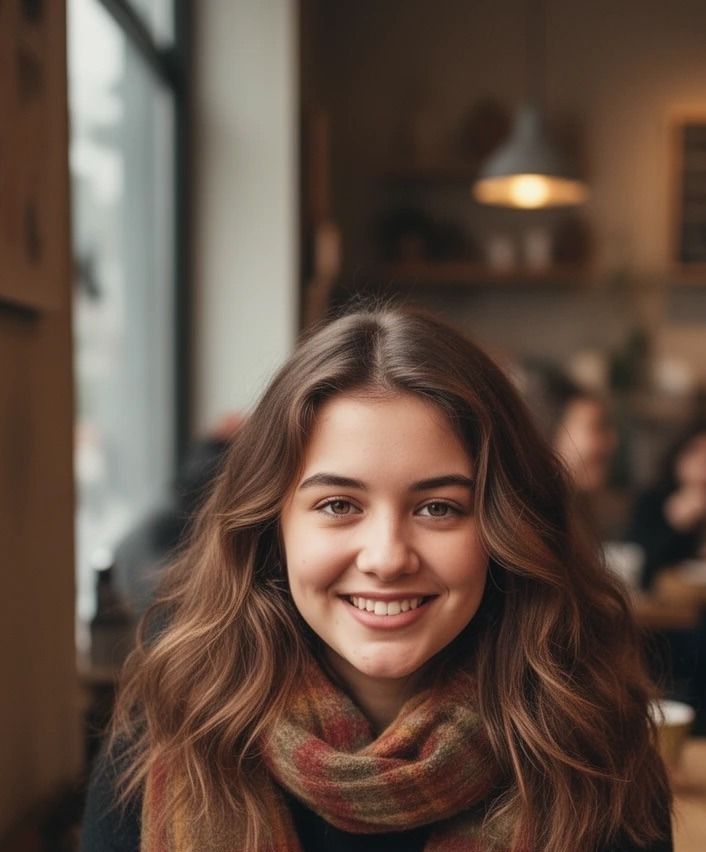
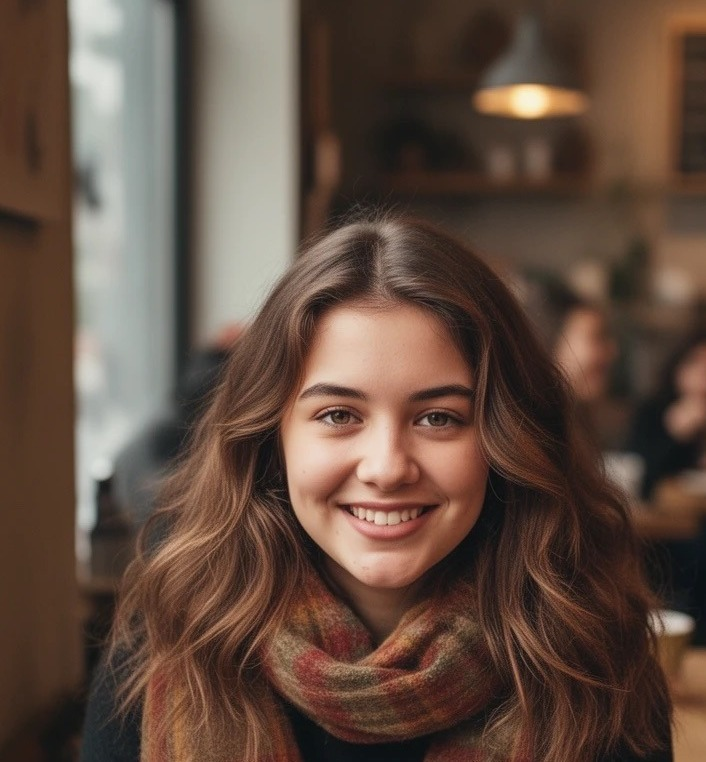
Fix Beat 0 images not showing; reframe 2024 portrait
- Beat 0: switch Image style from absoluteFillObject to width/height 100% so images fill the card correctly
- Beat 0 overlay: use explicit position absolute instead of spread to avoid StyleSheet issues
- timeline_2024: crop 90px from top to shift face into upper third of card

diff --git a/aihunter-app/features/onboarding/ThesisScreen.js b/aihunter-app/features/onboarding/ThesisScreen.js
@@ -239,7 +239,7 @@ function Beat0({ onFlash, onNext }) {
             >
               <Image
                 source={BEAT0_IMAGES[label]}
-                style={StyleSheet.absoluteFillObject}
+                style={styles.beat0Image}
                 resizeMode="cover"
               />
               {stage >= 2 && (
@@ -608,7 +608,8 @@ const styles = StyleSheet.create({
   imageRow:                 { flexDirection: 'row', gap: 12, justifyContent: 'center' },
   imagePlaceholder:         { backgroundColor: colors.surface, borderRadius: radius.lg, borderWidth: 1.5, borderColor: colors.border, overflow: 'hidden' },
   imagePlaceholderRevealed: { borderColor: colors.incorrect },
-  beat0Overlay:             { ...StyleSheet.absoluteFillObject, backgroundColor: 'rgba(0,0,0,0.45)', alignItems: 'center', justifyContent: 'flex-end', paddingBottom: 14 },
+  beat0Image:               { width: '100%', height: '100%' },
+  beat0Overlay:             { position: 'absolute', top: 0, left: 0, right: 0, bottom: 0, backgroundColor: 'rgba(0,0,0,0.45)', alignItems: 'center', justifyContent: 'flex-end', paddingBottom: 14 },
   beat0OverlayText:         { fontSize: 13, fontFamily: fonts.semiBold, color: colors.incorrect, letterSpacing: 0.5 },
 
   timelineScroll:  { flexGrow: 0, marginVertical: 16 },
